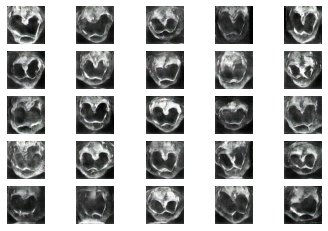
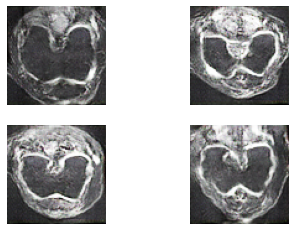
Update readme.md, add prediction result and plots.

diff --git a/recognition/lyubinapple/readme.md b/recognition/lyubinapple/readme.md
@@ -3,7 +3,7 @@ The report is to build the generative model of OAI AKOA knee dataset using DCGAN
 
 > **Dependency:**
 - Python = 3.7
-- Tensorflow = 2.1.0
+- Tensorflow = 2.3.0
 - IPython
 - Matplotlib
 - PIL
@@ -25,7 +25,7 @@ I build DCGAN model for problem 6. DCGAN is an optimization of traditional GAN. 
 
 **Data split:**
 
-I read all of images in OAI dataset. Then I use 15000 images to train the model. During training, the batch size is set to be 128. In each batch, half to it is used to generate real samples. While half to it is used to generate fake samples. Finally, form a batch of weight updates together.
+I use 15000 images to train the model. During training, the batch size is set to be 128. In each batch, half to it is used to generate real samples. While half to it is used to generate fake samples. Finally, form a batch of weight updates together.
 
 **Evaluation method:**
 
@@ -37,7 +37,7 @@ After 50 epochs based on 15000 images, the prediction result is plot as follow:
 
 ![Getting Started](DCGANPredict.png)
 
-This result is clear but the SSIM result is not good enough which is 0.11.
+This result is clear but the SSIM result is not good enough which is 0.28.
 
 >**Appendix**
 
